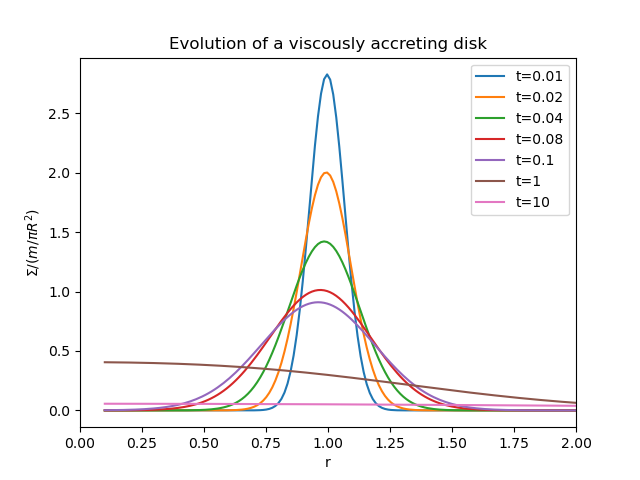
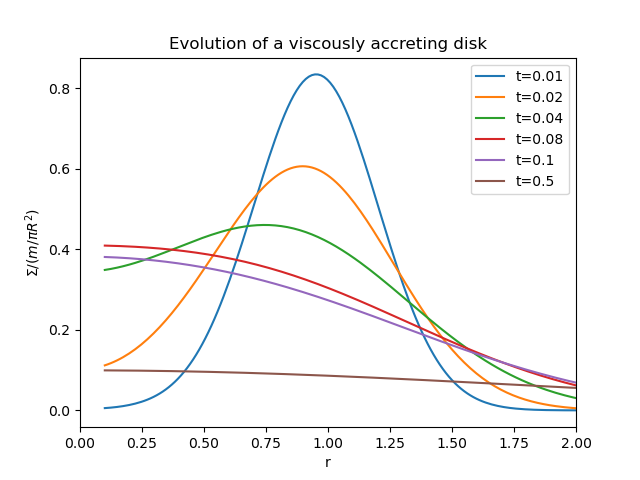
Updating the tau values for question 1.1

diff --git a/hw3_Q1_1.py b/hw3_Q1_1.py
@@ -10,28 +10,34 @@ import scipy
 
 def surface_density(x, t):
     return (1/(t*x**(1/4)))*(np.exp(-(1+x**2)/t))*(scipy.special.iv(1/4,((2*x)/t)))
- 
+
+
+# let's set R_0 = 1 our x_vals don't have to change
+R0=1
+nu = 0.5 # our viscosity that comes into our t vals, chose a viscosity that allowed to see the diffusion occur nicely in not too many time steps
 
 x_vals = np.linspace(0.1, 5, 400) # we have to start above zero to prevent diving by zero in the surface density function  (but gives an error abount invalid value for multiplication?)
-t_vals = np.array([0.01, 0.02, 0.04, 0.08, 0.1, 1, 10]) # wanted to do a range of different orders of magnitude for the time values
+t_vals = np.array([0.01, 0.02, 0.04, 0.08, 0.1, 0.5]) # wanted to do a range of different orders of magnitude for the time values
+tau_vals = ((12*nu)/R0**2)*t_vals
 
 
 
 # let's now plot these values (i could have made a loop but it's not that many plots...)
 
-plt.plot(x_vals, surface_density(x_vals, t_vals[0]), label='t=0.01')
+# starting the plot as a delta function or close to it
 
-plt.plot(x_vals, surface_density(x_vals, t_vals[1]), label='t=0.02')
+plt.plot(x_vals, surface_density(x_vals, tau_vals[0]), label="t=0.01")
 
-plt.plot(x_vals, surface_density(x_vals, t_vals[2]), label='t=0.04')
+plt.plot(x_vals, surface_density(x_vals, tau_vals[1]), label='t=0.02')
 
-plt.plot(x_vals, surface_density(x_vals, t_vals[3]), label='t=0.08')
+plt.plot(x_vals, surface_density(x_vals, tau_vals[2]), label='t=0.04')
 
-plt.plot(x_vals, surface_density(x_vals, t_vals[4]), label='t=0.1')
+plt.plot(x_vals, surface_density(x_vals, tau_vals[3]), label='t=0.08')
 
-plt.plot(x_vals, surface_density(x_vals, t_vals[5]), label='t=1')
+plt.plot(x_vals, surface_density(x_vals, tau_vals[4]), label='t=0.1')
 
-plt.plot(x_vals, surface_density(x_vals, t_vals[6]), label='t=10')
+plt.plot(x_vals, surface_density(x_vals, tau_vals[5]), label='t=0.5')
+
 
 plt.xlabel("r")
 plt.ylabel("$\Sigma /(m/\pi R^2)$") #if i have time i will make this nice with latex formating
